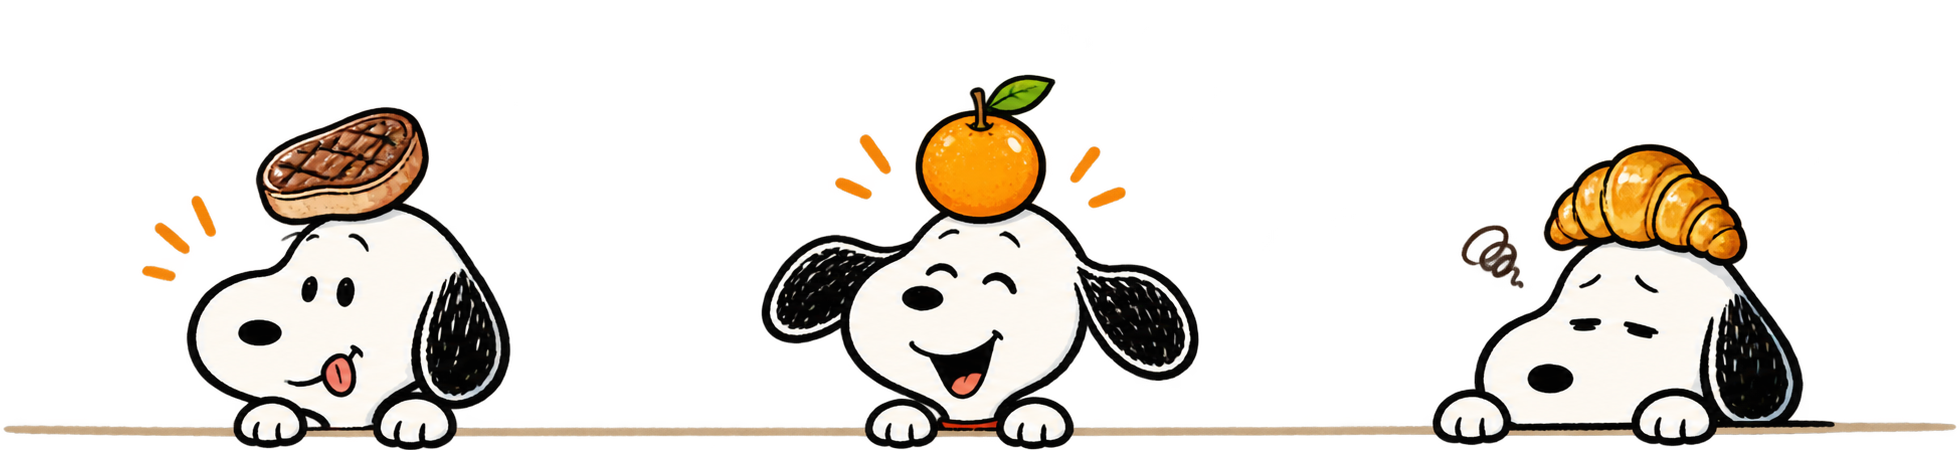
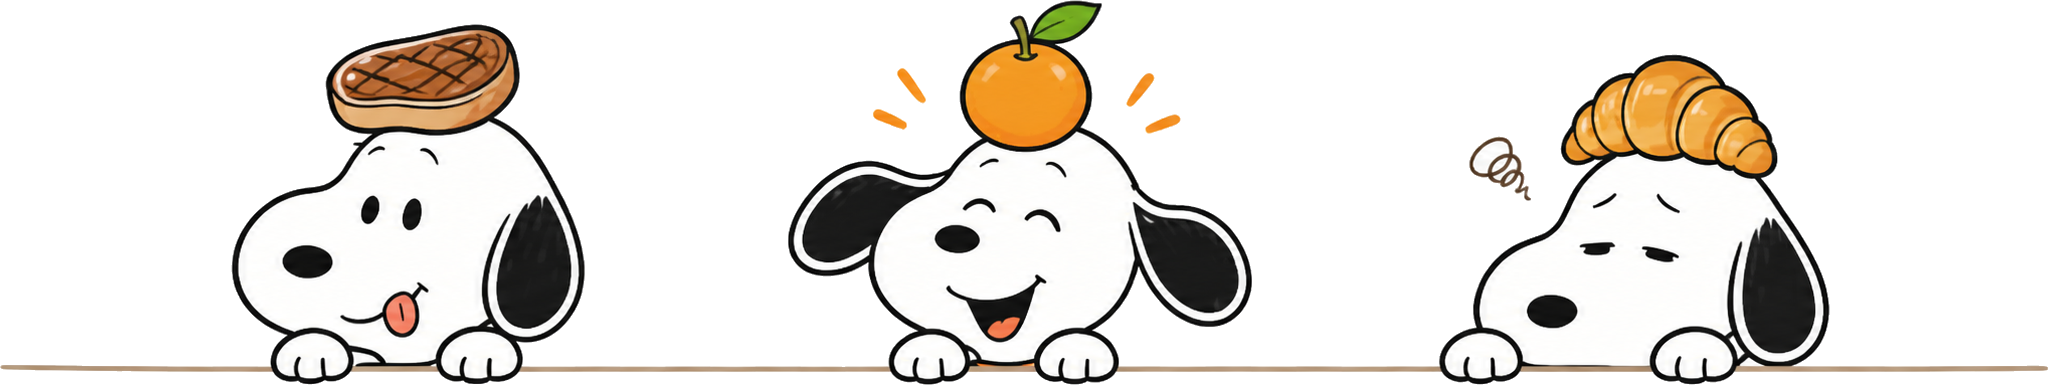
feat: unify Snoopy search artwork style

Changed region(s): [[0.0, 0.0, 1.0, 1.0]]

diff --git a/src/navAssets.test.ts b/src/navAssets.test.ts
@@ -66,7 +66,7 @@ function alphaRange(fileName: string) {
     current.copy(previous);
   }
 
-  return { min, max };
+  return { min, max, width, height };
 }
 
 describe("Snoopy home illustration", () => {
@@ -102,6 +102,12 @@ describe("Snoopy recipe search trio illustration", () => {
     const alpha = alphaRange("../illustrations/snoopy-search-trio.png");
     expect(alpha.min).toBeLessThan(255);
     expect(alpha.max).toBe(255);
+  });
+
+  it("keeps the clean wide-and-shallow banner crop used by the search field", () => {
+    const artwork = alphaRange("../illustrations/snoopy-search-trio.png");
+    expect(artwork.width / artwork.height).toBeGreaterThan(5);
+    expect(artwork.height).toBeLessThan(450);
   });
 });
 describe("Snoopy navigation PNG assets", () => {
